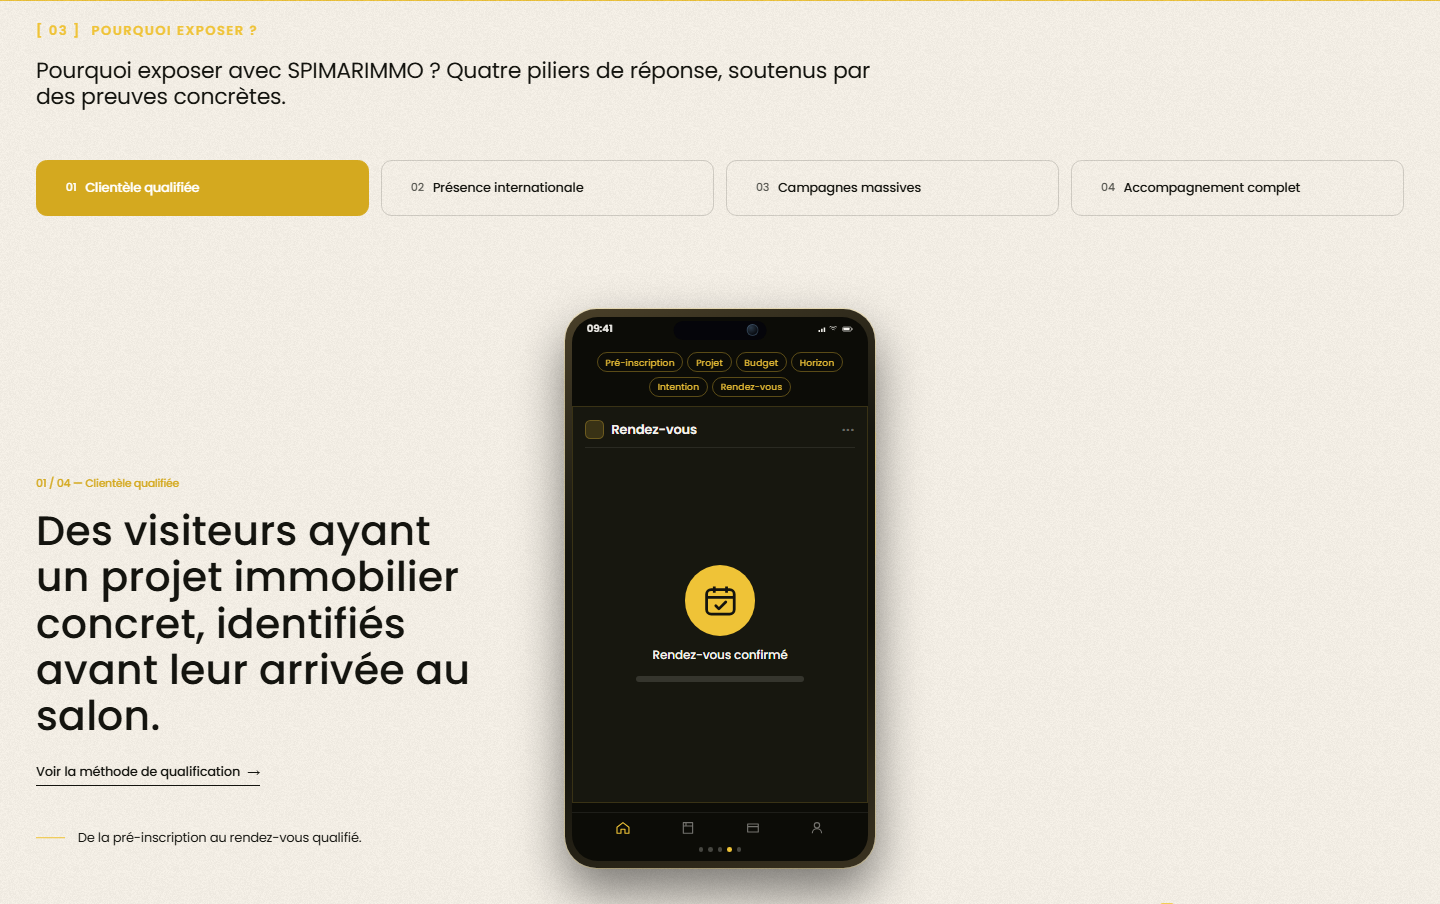
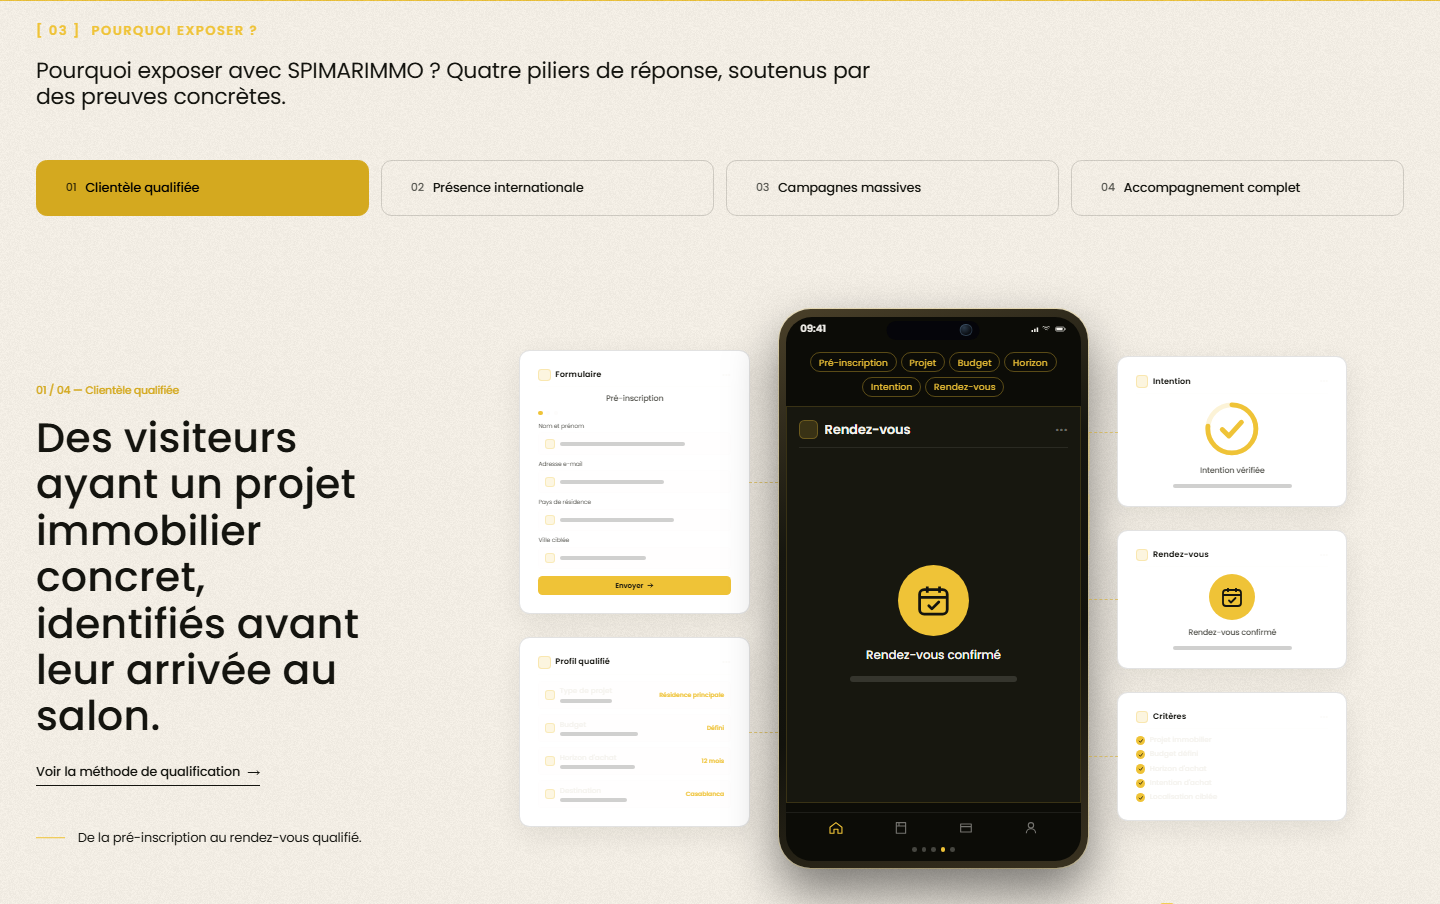
Build the pillars card ecosystem from the approved Section-1 reference
The reference's diagram layer, now implemented: each pillar's cards
float around the device — two left, the rest right — joined to it by
dashed gold rails, with the copy column beside them. The cards are the
pillar's own existing data, so the four pillars each carry their real
set (Formulaire/Profil qualifié · Intention/Rendez-vous/Critères, and
the equivalents for 02-04).

They keep the deliberate low-fidelity treatment rather than the
reference's photography: the section's own contract says inventing
screen content would be fake, and no validated stand or campaign
imagery exists yet.

Two defects found and fixed by capture, not by reading the diff:
- The lo-fi kit is sized in container-query units against the phone
  frame. Rendered outside it the cards resolved cqw against the
  viewport and exploded to full-page height; each aside card is now
  its own inline-size container, so the same kit scales to the card.
- The kit's dimmed values are tuned for the dark phone; on ivory the
  card text and bars were near-invisible, so the aside overrides ink
  and bar values.

Below 900px the asides are hidden — the same cards already play in
sequence inside the phone, so nothing is lost on mobile.

Evidence: tsc clean, production build OK, e2e 52/52 green; capture at
qa/implementation/pillars-B-reference.png.

Claude-Session: https://claude.ai/code/session_01AXMt3Sip3XfFbp4AdYVRzg

diff --git a/components/public/home/MobileShowcase.tsx b/components/public/home/MobileShowcase.tsx
@@ -437,83 +437,108 @@ export function MobileShowcase() {
           onFocusCapture={() => setPaused(true)}
           onBlurCapture={() => setPaused(false)}
         >
-          <div className="pillarPhone">
-            <div className="pillarPhone__frame">
-              {/* Device chrome, as the reference has it: pill camera, clock and
+          {/* Approved Section-1 reference: the pillar's cards float AROUND the
+              device as a connected diagram. Same lo-fi treatment as inside the
+              phone — inventing screen photography would be fake content. */}
+          <div className="pillarDiagram">
+            <div className="pillarAside pillarAside--left" aria-hidden="true">
+              {pillar.cards.slice(0, 2).map((c) => (
+                <div className="pillarAside__card" key={`left-${c.title}`}>
+                  <LofiCard card={c} />
+                </div>
+              ))}
+            </div>
+            <div className="pillarPhone">
+              <div className="pillarPhone__frame">
+                {/* Device chrome, as the reference has it: pill camera, clock and
                 signal/wifi/battery icons. It is what makes the frame read as a
                 handset rather than a rounded rectangle. */}
-              <span className="pillarPhone__notch" aria-hidden="true">
-                <span className="pillarPhone__lens" />
-              </span>
-              <div className="pillarPhone__status" aria-hidden="true">
-                <span className="pillarPhone__time">09:41</span>
-                <span className="pillarPhone__signal">
-                  <svg viewBox="0 0 69 12" fill="none">
-                    <path d="M1 8h3v4H1zM6 5.5h3V12H6zM11 3h3v9h-3z" fill="currentColor" />
-                    <path
-                      d="M25.5 4.2c2.3-1.9 5.7-1.9 8 0M23 1.6c3.7-3 9.3-3 13 0M28 7c1-.8 2.5-.8 3.5 0"
-                      stroke="currentColor"
-                      strokeWidth="1.4"
-                      strokeLinecap="round"
-                    />
-                    <rect
-                      x="48"
-                      y="2"
-                      width="17"
-                      height="8"
-                      rx="2.2"
-                      stroke="currentColor"
-                      strokeWidth="1.2"
-                    />
-                    <rect x="49.5" y="3.5" width="12" height="5" rx="1" fill="currentColor" />
-                    <path
-                      d="M66.5 5v2"
-                      stroke="currentColor"
-                      strokeWidth="1.4"
-                      strokeLinecap="round"
-                    />
-                  </svg>
+                <span className="pillarPhone__notch" aria-hidden="true">
+                  <span className="pillarPhone__lens" />
                 </span>
-              </div>
-              <div className="pillarPhone__screen">
-                <div className="pillarPhone__chips" aria-hidden="true">
-                  {pillar.chips.map((c) => (
-                    <span className="pillarChip" key={c}>
-                      {c}
-                    </span>
-                  ))}
+                <div className="pillarPhone__status" aria-hidden="true">
+                  <span className="pillarPhone__time">09:41</span>
+                  <span className="pillarPhone__signal">
+                    <svg viewBox="0 0 69 12" fill="none">
+                      <path d="M1 8h3v4H1zM6 5.5h3V12H6zM11 3h3v9h-3z" fill="currentColor" />
+                      <path
+                        d="M25.5 4.2c2.3-1.9 5.7-1.9 8 0M23 1.6c3.7-3 9.3-3 13 0M28 7c1-.8 2.5-.8 3.5 0"
+                        stroke="currentColor"
+                        strokeWidth="1.4"
+                        strokeLinecap="round"
+                      />
+                      <rect
+                        x="48"
+                        y="2"
+                        width="17"
+                        height="8"
+                        rx="2.2"
+                        stroke="currentColor"
+                        strokeWidth="1.2"
+                      />
+                      <rect x="49.5" y="3.5" width="12" height="5" rx="1" fill="currentColor" />
+                      <path
+                        d="M66.5 5v2"
+                        stroke="currentColor"
+                        strokeWidth="1.4"
+                        strokeLinecap="round"
+                      />
+                    </svg>
+                  </span>
                 </div>
+                {/* Approved Section-1 reference: the cards float AROUND the device as a
 
-                {/* Keyed so each card mounts fresh and plays its own entrance. */}
-                <div className="pillarPhone__stage">
-                  <LofiCard card={current} key={`${pillar.num}-${card}`} />
-                </div>
+                  diagram, connected by rails. Same lo-fi treatment as inside the
 
-                <div className="pillarPhone__nav" aria-hidden="true">
-                  {[
-                    "M3 11 12 4l9 7v9h-6v-6h-6v6H3z",
-                    "M5 4h14v16H5zM5 9h14M9 4v5",
-                    "M4 6h16v12H4zM4 10h16",
-                    "M12 12a4 4 0 1 0 0-8 4 4 0 0 0 0 8Zm-7 8a7 7 0 0 1 14 0",
-                  ].map((d, i) => (
-                    <span className={`pillarPhone__navItem${i === 0 ? " is-on" : ""}`} key={d}>
-                      <svg viewBox="0 0 24 24" fill="none">
-                        <path
-                          d={d}
-                          stroke="currentColor"
-                          strokeWidth="1.7"
-                          strokeLinejoin="round"
-                        />
-                      </svg>
-                    </span>
-                  ))}
-                </div>
-                <div className="pillarPhone__progress" aria-hidden="true">
-                  {pillar.cards.map((_, i) => (
-                    <span className={`pillarPhone__pip${i === card ? " is-on" : ""}`} key={i} />
-                  ))}
+                  phone — inventing screen photography would be fake content. */}
+
+                <div className="pillarPhone__screen">
+                  <div className="pillarPhone__chips" aria-hidden="true">
+                    {pillar.chips.map((c) => (
+                      <span className="pillarChip" key={c}>
+                        {c}
+                      </span>
+                    ))}
+                  </div>
+
+                  {/* Keyed so each card mounts fresh and plays its own entrance. */}
+                  <div className="pillarPhone__stage">
+                    <LofiCard card={current} key={`${pillar.num}-${card}`} />
+                  </div>
+
+                  <div className="pillarPhone__nav" aria-hidden="true">
+                    {[
+                      "M3 11 12 4l9 7v9h-6v-6h-6v6H3z",
+                      "M5 4h14v16H5zM5 9h14M9 4v5",
+                      "M4 6h16v12H4zM4 10h16",
+                      "M12 12a4 4 0 1 0 0-8 4 4 0 0 0 0 8Zm-7 8a7 7 0 0 1 14 0",
+                    ].map((d, i) => (
+                      <span className={`pillarPhone__navItem${i === 0 ? " is-on" : ""}`} key={d}>
+                        <svg viewBox="0 0 24 24" fill="none">
+                          <path
+                            d={d}
+                            stroke="currentColor"
+                            strokeWidth="1.7"
+                            strokeLinejoin="round"
+                          />
+                        </svg>
+                      </span>
+                    ))}
+                  </div>
+                  <div className="pillarPhone__progress" aria-hidden="true">
+                    {pillar.cards.map((_, i) => (
+                      <span className={`pillarPhone__pip${i === card ? " is-on" : ""}`} key={i} />
+                    ))}
+                  </div>
                 </div>
               </div>
+            </div>
+            <div className="pillarAside pillarAside--right" aria-hidden="true">
+              {pillar.cards.slice(2).map((c) => (
+                <div className="pillarAside__card" key={`right-${c.title}`}>
+                  <LofiCard card={c} />
+                </div>
+              ))}
             </div>
           </div>
 

diff --git a/components/public/home/pillars.css b/components/public/home/pillars.css
@@ -97,13 +97,15 @@
   grid-column: 1 / -1;
   grid-row: 3;
   display: grid;
-  /* Reference diagram row: pillar copy left, device in the true centre. */
-  grid-template-columns: minmax(0, 1fr) auto minmax(0, 1fr);
+  /* Reference diagram row: pillar copy left, the diagram taking the width it
+     needs so the copy is not crushed. */
+  grid-template-columns: minmax(0, 1fr) minmax(0, 2.5fr);
   align-items: center;
   gap: 3.5vw;
 }
 .pillars__body > :first-child {
   grid-column: 2;
+  grid-row: 1;
 }
 .pillars__body .pillars__lead {
   grid-column: 1;
@@ -675,4 +677,89 @@
 }
 .pillars__leadBody {
   color: var(--on-surface-muted);
+}
+
+/* --- Diagram: cards floating around the device (Section-1 reference) -------- */
+.pillarDiagram {
+  display: grid;
+  grid-template-columns: minmax(0, 1fr) auto minmax(0, 1fr);
+  align-items: center;
+  gap: 2vw;
+  position: relative;
+}
+.pillarAside {
+  display: flex;
+  flex-direction: column;
+  gap: 1.6vw;
+  position: relative;
+}
+.pillarAside--left {
+  align-items: flex-end;
+}
+.pillarAside--right {
+  align-items: flex-start;
+}
+.pillarAside__card {
+  /* The lo-fi kit is sized in cqw against the phone container; each aside card
+     becomes its own container so the same kit scales to the card, not to the
+     viewport (which rendered them enormous). */
+  container-type: inline-size;
+  width: 16vw;
+  min-width: 170px;
+  background: var(--surface-raised);
+  border: 1px solid rgb(20 20 15 / 12%);
+  border-radius: var(--radius-lg);
+  box-shadow: 0 0.6vw 1.8vw rgb(20 20 15 / 8%);
+  padding: var(--space-sm);
+  position: relative;
+}
+/* Connector rail from each card toward the device, as in the reference. */
+.pillarAside--left .pillarAside__card::after,
+.pillarAside--right .pillarAside__card::after {
+  content: "";
+  position: absolute;
+  top: 50%;
+  width: 2vw;
+  border-top: 1px dashed var(--spimar-gold-deep);
+  opacity: 0.55;
+}
+.pillarAside--left .pillarAside__card::after {
+  inset-inline-start: 100%;
+}
+.pillarAside--right .pillarAside__card::after {
+  inset-inline-end: 100%;
+}
+/* The lo-fi card renders on ivory here, not inside the dark phone. */
+.pillarAside__card .lofi {
+  background: transparent;
+  border: 0;
+  padding: 0;
+}
+.pillarAside__card .lofi__headTitle {
+  color: var(--on-surface);
+  opacity: 1;
+}
+.pillarAside__card .lofi__caption,
+.pillarAside__card .lofi__fieldLabel {
+  color: var(--on-surface-muted);
+  opacity: 1;
+}
+.pillarAside__card .lofi__bar {
+  background: rgb(20 20 15 / 20%);
+}
+
+@media (max-width: 1080px) {
+  .pillarAside__card {
+    width: 20vw;
+  }
+}
+@media (max-width: 900px) {
+  /* Below the diagram breakpoint the asides would crush the device; the cards
+     already appear in sequence inside the phone, so nothing is lost. */
+  .pillarDiagram {
+    grid-template-columns: 1fr;
+  }
+  .pillarAside {
+    display: none;
+  }
 }
